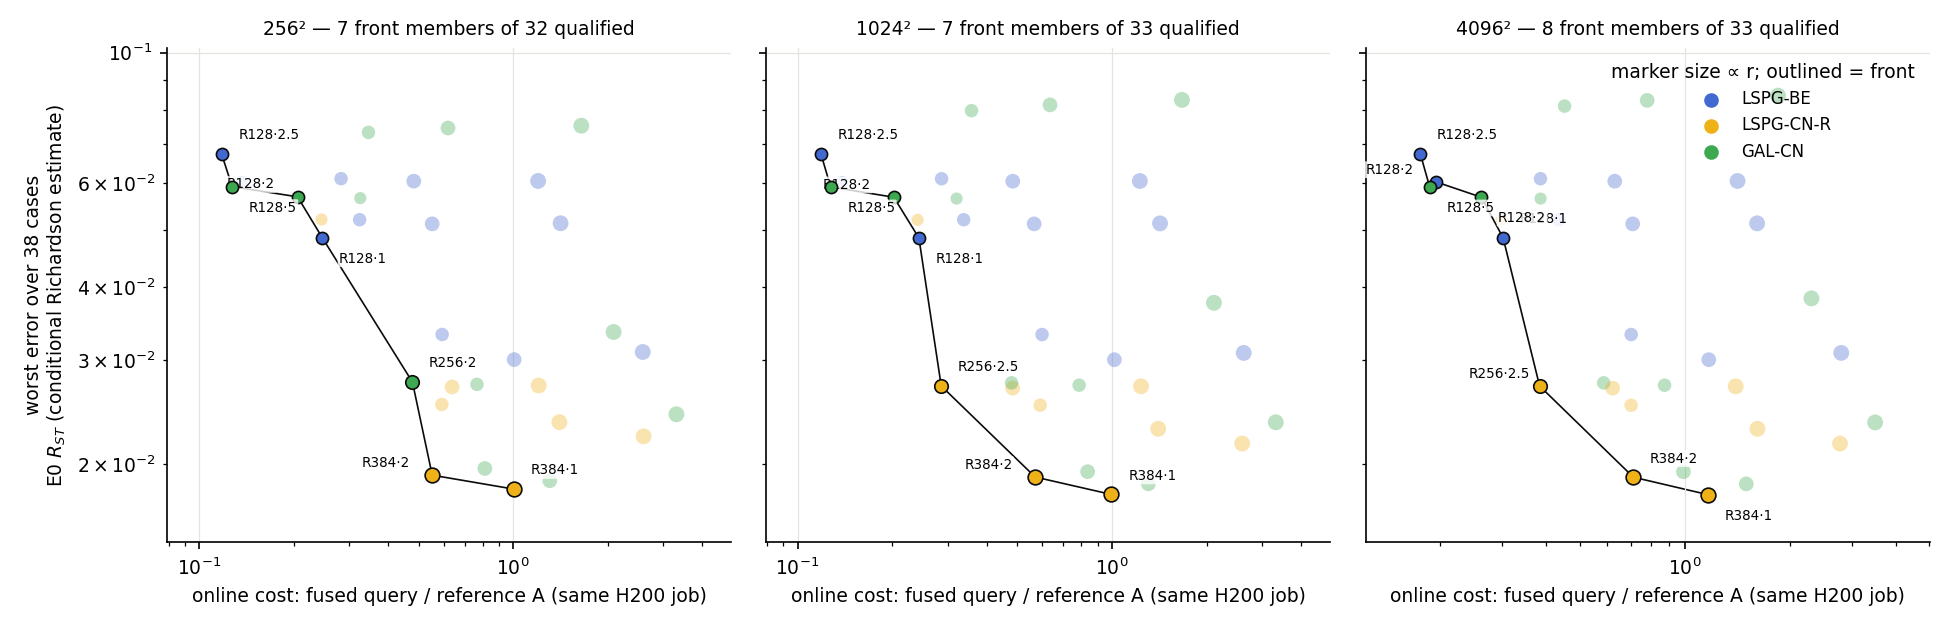
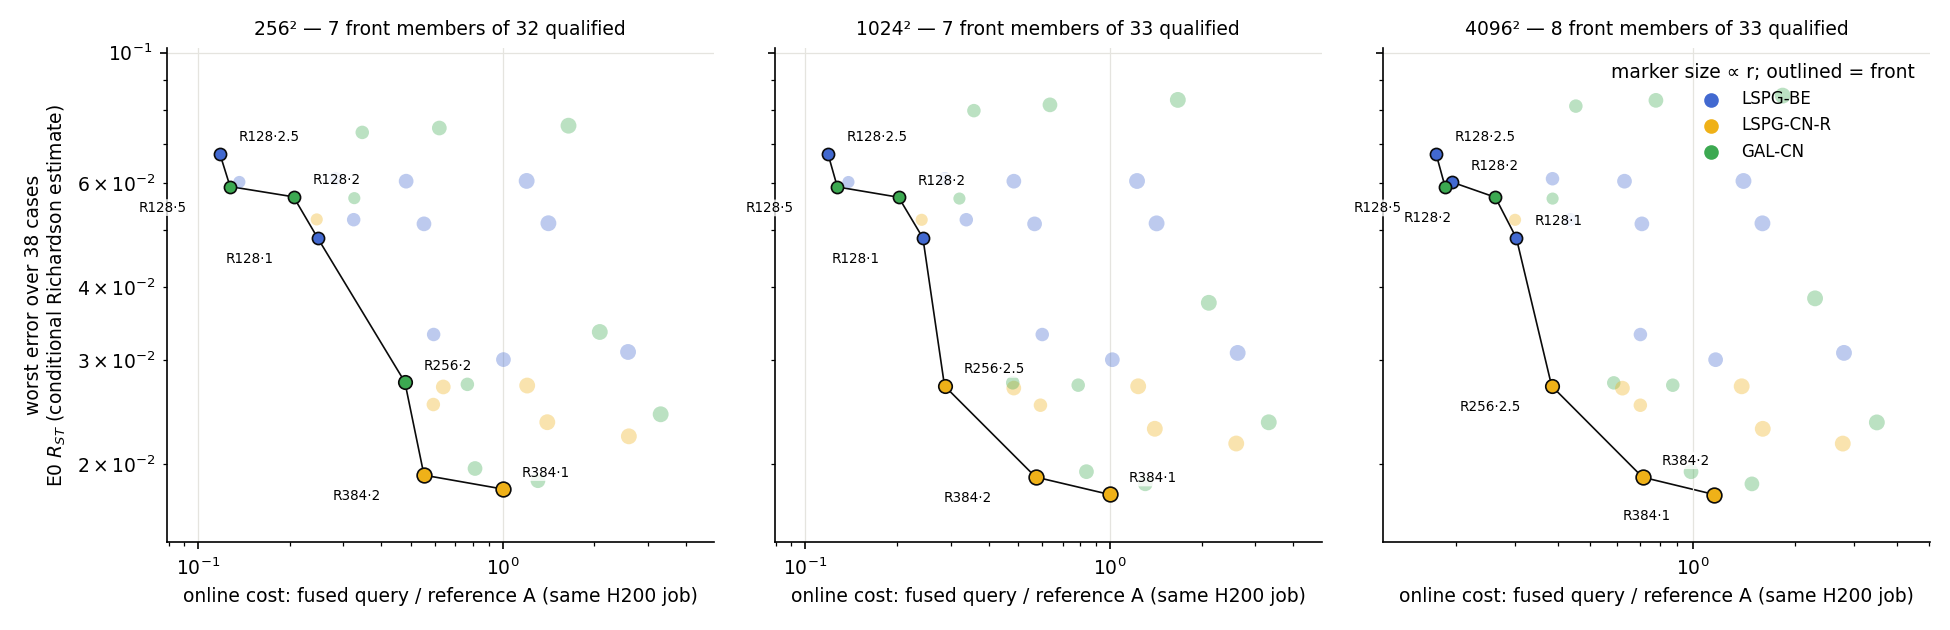
mirror of feec924d2: jcp-qualify: report audit 3 fixes (LaTeX in corrections, plot labels)

diff --git a/experiments/jcp-qualify/make_report.py b/experiments/jcp-qualify/make_report.py
@@ -78,7 +78,7 @@ def plots():
                            edgecolor='#0b0b0b' if on else 'none', linewidth=.8, zorder=3 if on else 2)
                 if on:
                     i_ = sorted(front, key=lambda kk: cand[kk]['c']).index(k)
-                    ax.annotate(f"R{c['r']}·{g(c['factor'])}", (v['c'], v[stat]), xytext=(8, 7 if i_ % 2 == 0 else -12) if i_ % 3 != 2 else (-34, 4),
+                    ax.annotate(f"R{c['r']}·{g(c['factor'])}", (v['c'], v[stat]), xytext=(9, 6) if i_ % 2 == 0 else (-44, -12),
                                 textcoords='offset points', fontsize=6.5,
                                 bbox=dict(boxstyle='round,pad=0.1', fc='white', ec='none', alpha=.8))
             pts = sorted((cand[k]['c'], cand[k][stat]) for k in front)
@@ -403,12 +403,12 @@ def main():
             k = f'{m}|R{r}|LSPG|CNR|2'
             v = C.get(k)
             if v and not v['Q1'].get('pass'):
-                w(f"- **{m}², R{r} LSPG-CN-R at 2Δt₀** fails Q1 here: worst distance to the tight solve {g(v.get('worst_dist_tight'))} on {v.get('worst_dist_tight_case')} (bar 2.5·10⁻⁴), although its Q2 label is {v['Q2'].get('label')}. jcp-combined's finalist table (`worktrees/2026-10-13-jcp-combined/experiments/jcp-combined/report.md`, finalist and fallback tables) calls the R128 and R256-fallback \"fast equal accuracy\" arms of this scheme and step qualified under its own finalist criterion; under the every-case Q1 contract of V4-2 they are **not** numerically qualified. Combined's measured errors and timings are not retracted; its qualification label for these arms is.")
+                w(f"- **{m}², R{r} LSPG-CN-R at 2Δt₀** fails Q1 here: worst distance to the tight solve ${g(v.get('worst_dist_tight'))}$ on {v.get('worst_dist_tight_case')} (bar $2.5\\times10^{{-4}}$), although its Q2 label is {v['Q2'].get('label')}. jcp-combined's finalist table (`worktrees/2026-10-13-jcp-combined/experiments/jcp-combined/report.md`, finalist and fallback tables) calls the R128 and R256-fallback \"fast equal accuracy\" arms of this scheme and step qualified under its own finalist criterion; under the every-case Q1 contract of V4-2 they are **not** numerically qualified. Combined's measured errors and timings are not retracted; its qualification label for these arms is.")
     T3 = AN.get('threeD') or {}
     for k in ('M2_512|gl24|fs|BDF2|0.0125|K1', 'M2_512|gl24|qn|CN|0.016666667|k4'):
         v = (T3.get('tested') or {}).get(k)
         if v:
-            w(f"- **speed3d H2 winner `{k}`**: Q2-3D {v['label']} (successor-rule distance {g(v['worst_dist_qp'])} > 2.5·10⁻⁴, ρ {g(v['rho_max'])}). speed3d already labels reduced rules \"empirically validated surrogates, not quadrature-equivalent\" (`worktrees/2026-10-14-jcp-speed3d/experiments/jcp-speed3d/report.md`); its speed-ups stand as measured, but the winners must not be described as quadrature-qualified.")
+            w(f"- **speed3d H2 winner `{k}`**: Q2-3D {v['label']} (successor-rule distance ${g(v['worst_dist_qp'])}>2.5\\times10^{{-4}}$, $\\rho_{{\\max}}={g(v['rho_max'])}$). speed3d already labels reduced rules \"empirically validated surrogates, not quadrature-equivalent\" (`worktrees/2026-10-14-jcp-speed3d/experiments/jcp-speed3d/report.md`); its speed-ups stand as measured, but the winners must not be described as quadrature-qualified.")
     w('- **P1:** no numerical retraction; its $4096^2$ R128/R256 results are on its 16-case subset (extended here to 38 cases for the front).')
     w('')
     w('## Deviations and retractions')

diff --git a/experiments/jcp-qualify/report.md b/experiments/jcp-qualify/report.md
@@ -461,14 +461,14 @@ Real-size smoke acceptance (`checks/smoke-accept.json`): 85 of 85 required contr
 
 ## Corrections to earlier reports (stated plainly)
 
-- **256², R128 LSPG-CN-R at 2Δt₀** fails Q1 here: worst distance to the tight solve 0.000361 on val32|19 (bar 2.5·10⁻⁴), although its Q2 label is pass. jcp-combined's finalist table (`worktrees/2026-10-13-jcp-combined/experiments/jcp-combined/report.md`, finalist and fallback tables) calls the R128 and R256-fallback "fast equal accuracy" arms of this scheme and step qualified under its own finalist criterion; under the every-case Q1 contract of V4-2 they are **not** numerically qualified. Combined's measured errors and timings are not retracted; its qualification label for these arms is.
-- **256², R256 LSPG-CN-R at 2Δt₀** fails Q1 here: worst distance to the tight solve 0.000405 on val32|19 (bar 2.5·10⁻⁴), although its Q2 label is pass. jcp-combined's finalist table (`worktrees/2026-10-13-jcp-combined/experiments/jcp-combined/report.md`, finalist and fallback tables) calls the R128 and R256-fallback "fast equal accuracy" arms of this scheme and step qualified under its own finalist criterion; under the every-case Q1 contract of V4-2 they are **not** numerically qualified. Combined's measured errors and timings are not retracted; its qualification label for these arms is.
-- **1024², R128 LSPG-CN-R at 2Δt₀** fails Q1 here: worst distance to the tight solve 0.00036 on val32|19 (bar 2.5·10⁻⁴), although its Q2 label is pass. jcp-combined's finalist table (`worktrees/2026-10-13-jcp-combined/experiments/jcp-combined/report.md`, finalist and fallback tables) calls the R128 and R256-fallback "fast equal accuracy" arms of this scheme and step qualified under its own finalist criterion; under the every-case Q1 contract of V4-2 they are **not** numerically qualified. Combined's measured errors and timings are not retracted; its qualification label for these arms is.
-- **1024², R256 LSPG-CN-R at 2Δt₀** fails Q1 here: worst distance to the tight solve 0.000404 on val32|19 (bar 2.5·10⁻⁴), although its Q2 label is pass. jcp-combined's finalist table (`worktrees/2026-10-13-jcp-combined/experiments/jcp-combined/report.md`, finalist and fallback tables) calls the R128 and R256-fallback "fast equal accuracy" arms of this scheme and step qualified under its own finalist criterion; under the every-case Q1 contract of V4-2 they are **not** numerically qualified. Combined's measured errors and timings are not retracted; its qualification label for these arms is.
-- **4096², R128 LSPG-CN-R at 2Δt₀** fails Q1 here: worst distance to the tight solve 0.00036 on val32|19 (bar 2.5·10⁻⁴), although its Q2 label is pass. jcp-combined's finalist table (`worktrees/2026-10-13-jcp-combined/experiments/jcp-combined/report.md`, finalist and fallback tables) calls the R128 and R256-fallback "fast equal accuracy" arms of this scheme and step qualified under its own finalist criterion; under the every-case Q1 contract of V4-2 they are **not** numerically qualified. Combined's measured errors and timings are not retracted; its qualification label for these arms is.
-- **4096², R256 LSPG-CN-R at 2Δt₀** fails Q1 here: worst distance to the tight solve 0.000404 on val32|19 (bar 2.5·10⁻⁴), although its Q2 label is pass. jcp-combined's finalist table (`worktrees/2026-10-13-jcp-combined/experiments/jcp-combined/report.md`, finalist and fallback tables) calls the R128 and R256-fallback "fast equal accuracy" arms of this scheme and step qualified under its own finalist criterion; under the every-case Q1 contract of V4-2 they are **not** numerically qualified. Combined's measured errors and timings are not retracted; its qualification label for these arms is.
-- **speed3d H2 winner `M2_512|gl24|fs|BDF2|0.0125|K1`**: Q2-3D fail (successor-rule distance 0.000814 > 2.5·10⁻⁴, ρ 0.0397). speed3d already labels reduced rules "empirically validated surrogates, not quadrature-equivalent" (`worktrees/2026-10-14-jcp-speed3d/experiments/jcp-speed3d/report.md`); its speed-ups stand as measured, but the winners must not be described as quadrature-qualified.
-- **speed3d H2 winner `M2_512|gl24|qn|CN|0.016666667|k4`**: Q2-3D fail (successor-rule distance 0.000951 > 2.5·10⁻⁴, ρ 0.0447). speed3d already labels reduced rules "empirically validated surrogates, not quadrature-equivalent" (`worktrees/2026-10-14-jcp-speed3d/experiments/jcp-speed3d/report.md`); its speed-ups stand as measured, but the winners must not be described as quadrature-qualified.
+- **256², R128 LSPG-CN-R at 2Δt₀** fails Q1 here: worst distance to the tight solve $0.000361$ on val32|19 (bar $2.5\times10^{-4}$), although its Q2 label is pass. jcp-combined's finalist table (`worktrees/2026-10-13-jcp-combined/experiments/jcp-combined/report.md`, finalist and fallback tables) calls the R128 and R256-fallback "fast equal accuracy" arms of this scheme and step qualified under its own finalist criterion; under the every-case Q1 contract of V4-2 they are **not** numerically qualified. Combined's measured errors and timings are not retracted; its qualification label for these arms is.
+- **256², R256 LSPG-CN-R at 2Δt₀** fails Q1 here: worst distance to the tight solve $0.000405$ on val32|19 (bar $2.5\times10^{-4}$), although its Q2 label is pass. jcp-combined's finalist table (`worktrees/2026-10-13-jcp-combined/experiments/jcp-combined/report.md`, finalist and fallback tables) calls the R128 and R256-fallback "fast equal accuracy" arms of this scheme and step qualified under its own finalist criterion; under the every-case Q1 contract of V4-2 they are **not** numerically qualified. Combined's measured errors and timings are not retracted; its qualification label for these arms is.
+- **1024², R128 LSPG-CN-R at 2Δt₀** fails Q1 here: worst distance to the tight solve $0.00036$ on val32|19 (bar $2.5\times10^{-4}$), although its Q2 label is pass. jcp-combined's finalist table (`worktrees/2026-10-13-jcp-combined/experiments/jcp-combined/report.md`, finalist and fallback tables) calls the R128 and R256-fallback "fast equal accuracy" arms of this scheme and step qualified under its own finalist criterion; under the every-case Q1 contract of V4-2 they are **not** numerically qualified. Combined's measured errors and timings are not retracted; its qualification label for these arms is.
+- **1024², R256 LSPG-CN-R at 2Δt₀** fails Q1 here: worst distance to the tight solve $0.000404$ on val32|19 (bar $2.5\times10^{-4}$), although its Q2 label is pass. jcp-combined's finalist table (`worktrees/2026-10-13-jcp-combined/experiments/jcp-combined/report.md`, finalist and fallback tables) calls the R128 and R256-fallback "fast equal accuracy" arms of this scheme and step qualified under its own finalist criterion; under the every-case Q1 contract of V4-2 they are **not** numerically qualified. Combined's measured errors and timings are not retracted; its qualification label for these arms is.
+- **4096², R128 LSPG-CN-R at 2Δt₀** fails Q1 here: worst distance to the tight solve $0.00036$ on val32|19 (bar $2.5\times10^{-4}$), although its Q2 label is pass. jcp-combined's finalist table (`worktrees/2026-10-13-jcp-combined/experiments/jcp-combined/report.md`, finalist and fallback tables) calls the R128 and R256-fallback "fast equal accuracy" arms of this scheme and step qualified under its own finalist criterion; under the every-case Q1 contract of V4-2 they are **not** numerically qualified. Combined's measured errors and timings are not retracted; its qualification label for these arms is.
+- **4096², R256 LSPG-CN-R at 2Δt₀** fails Q1 here: worst distance to the tight solve $0.000404$ on val32|19 (bar $2.5\times10^{-4}$), although its Q2 label is pass. jcp-combined's finalist table (`worktrees/2026-10-13-jcp-combined/experiments/jcp-combined/report.md`, finalist and fallback tables) calls the R128 and R256-fallback "fast equal accuracy" arms of this scheme and step qualified under its own finalist criterion; under the every-case Q1 contract of V4-2 they are **not** numerically qualified. Combined's measured errors and timings are not retracted; its qualification label for these arms is.
+- **speed3d H2 winner `M2_512|gl24|fs|BDF2|0.0125|K1`**: Q2-3D fail (successor-rule distance $0.000814>2.5\times10^{-4}$, $\rho_{\max}=0.0397$). speed3d already labels reduced rules "empirically validated surrogates, not quadrature-equivalent" (`worktrees/2026-10-14-jcp-speed3d/experiments/jcp-speed3d/report.md`); its speed-ups stand as measured, but the winners must not be described as quadrature-qualified.
+- **speed3d H2 winner `M2_512|gl24|qn|CN|0.016666667|k4`**: Q2-3D fail (successor-rule distance $0.000951>2.5\times10^{-4}$, $\rho_{\max}=0.0447$). speed3d already labels reduced rules "empirically validated surrogates, not quadrature-equivalent" (`worktrees/2026-10-14-jcp-speed3d/experiments/jcp-speed3d/report.md`); its speed-ups stand as measured, but the winners must not be described as quadrature-qualified.
 - **P1:** no numerical retraction; its $4096^2$ R128/R256 results are on its 16-case subset (extended here to 38 cases for the front).
 
 ## Deviations and retractions

diff --git a/experiments/jcp-qualify/audits/codex-report-3.md b/experiments/jcp-qualify/audits/codex-report-3.md
@@ -1,0 +1,15 @@
+**Overall: NEEDS-FIX — numerical checks pass; presentation fixes remain.**
+
+| Previous must-fix | Verdict | Evidence |
+|---|---|---|
+| Dominance formula | RESOLVED | `report.md:269` matches DESIGN §6. |
+| Stopping disclosure | RESOLVED | Report and JSONs agree: three rounds, `round_limit_reached: true`, 16 exposed identities, 146 open candidates. |
+| Adjacent E0 caveats | RESOLVED | Present beside headline accuracies, tables and accuracy-plot axes. |
+| Plot readability | PARTIALLY | Inspected all eight PNGs. R384 clears the axis, but **R128·2 and R128·1 overlap** in the 4096² panel of [front2d_worst.png](/home/tahmid/Dev/Tunable-NM-ROM-Claude/worktrees/2026-10-18-jcp-qualify/experiments/jcp-qualify/plots/front2d_worst.png). R128 annotations still touch markers elsewhere. |
+| Glossary/LaTeX | RESOLVED for cited fixes | Lines 494–520 now define BDF2, $\bar\varepsilon_X$, $C_{\rm old}$, distinguish exploratory outcomes, and use LaTeX for the requested formulas. |
+
+Remaining whole-report fix: the correction bullets still use plain-text `2.5·10⁻⁴`, `>` and `ρ` outside math delimiters (`report.md:462–469`). Convert those expressions to LaTeX.
+
+Rechecked **329 result rows and 16 job rows** against source JSONs; EXPORT projections and frozen FRONT hash match. No untraceable empirical number, conflation of qualification/role/front membership, or additional substantive glossary gap found. Mermaid is color-coded; no apparent syntax issue.
+
+No files changed, scripts run, GPU used or cluster jobs launched.
